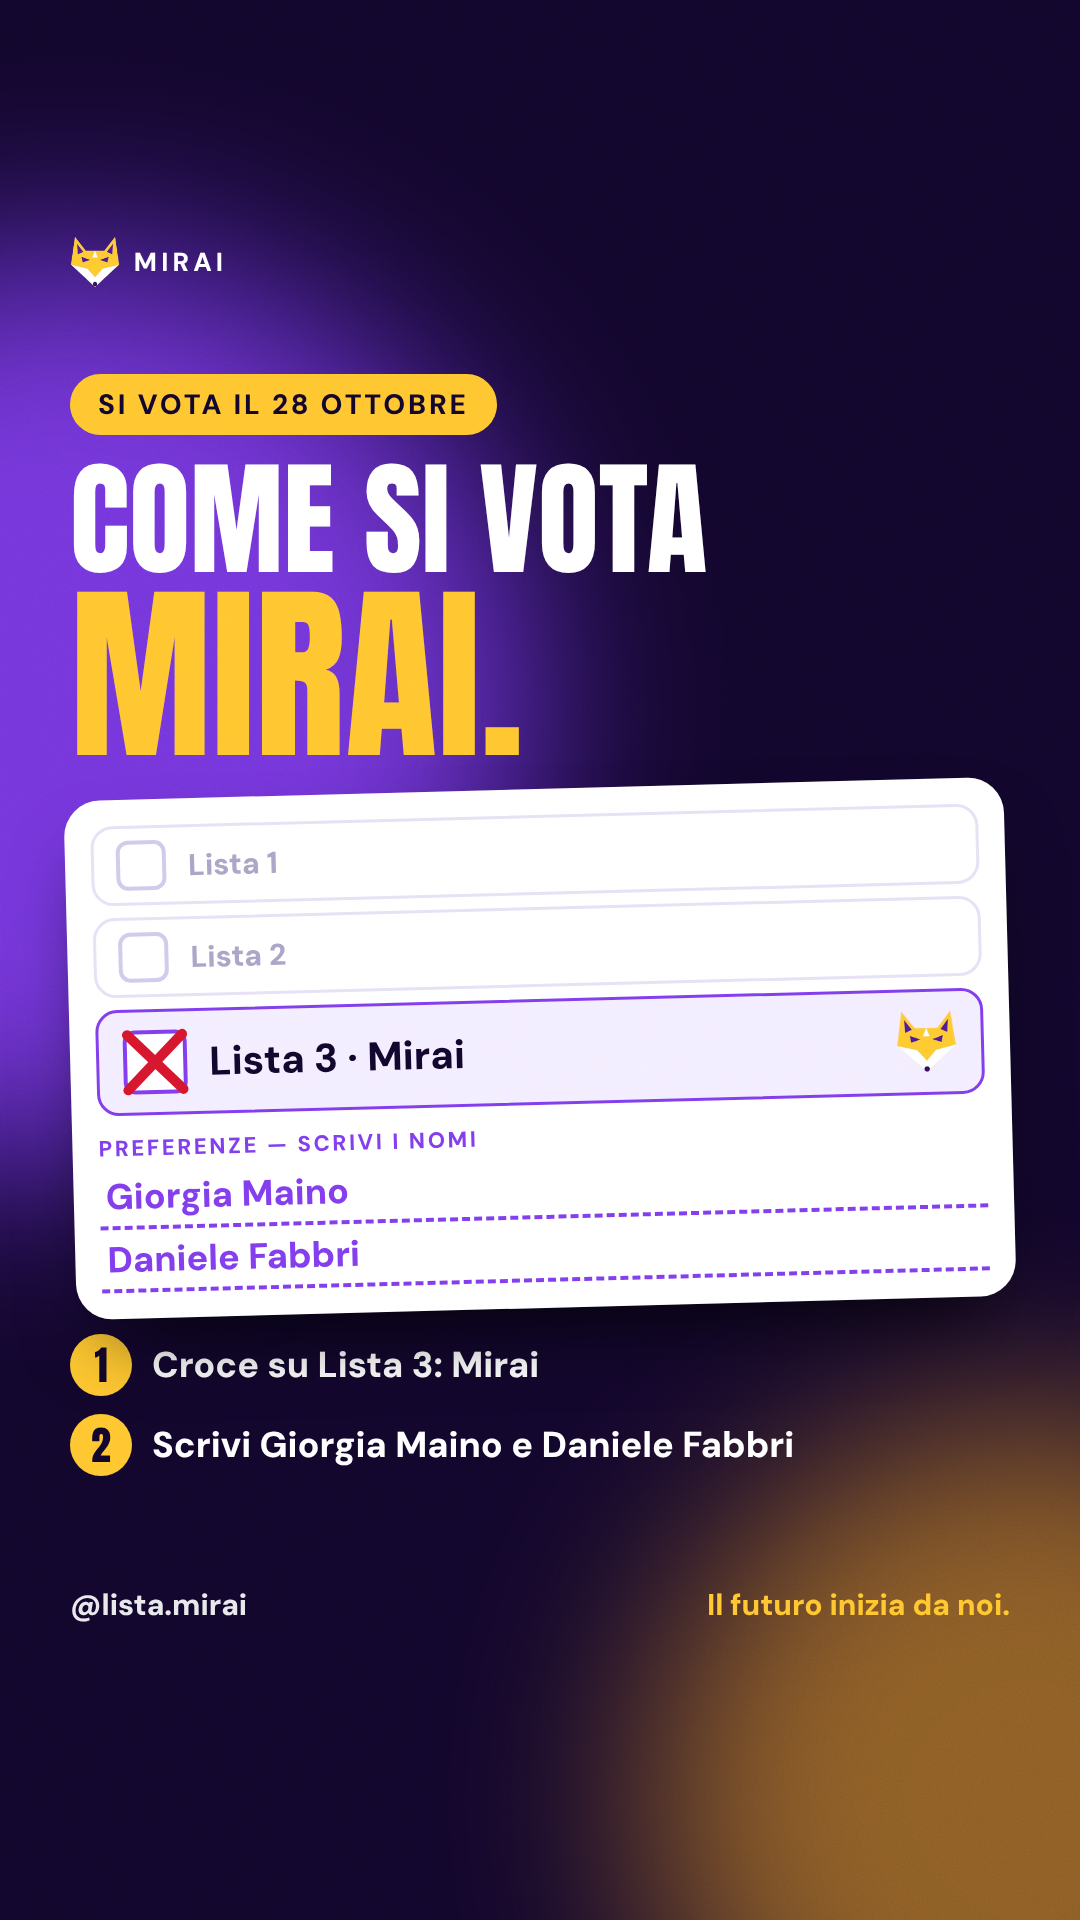
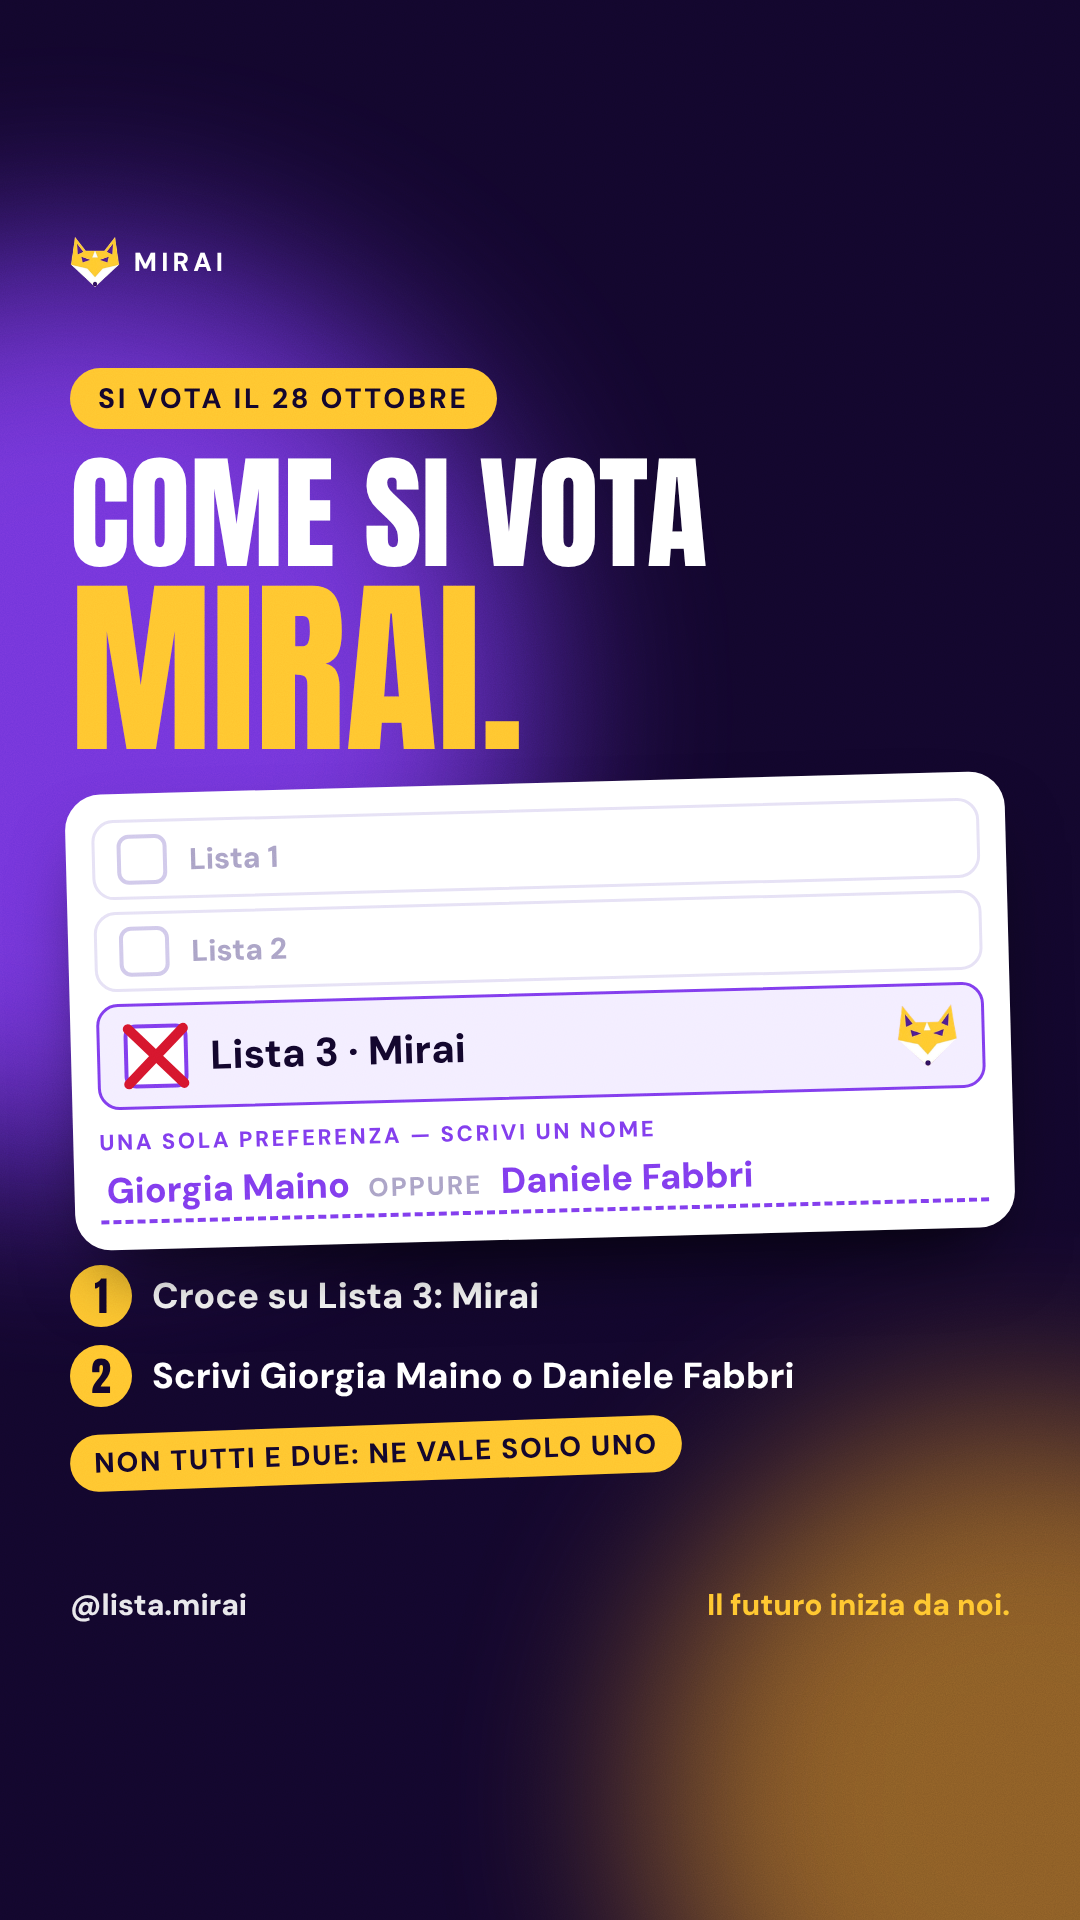
Social voto: una sola preferenza (Giorgia o Daniele)
Claude-Session: https://claude.ai/code/session_01GjWaSYZkqZzSe8a8dDrV6x

diff --git a/social/voto/voto.html b/social/voto/voto.html
@@ -43,23 +43,23 @@ body{background:#000;font-family:"DM Sans",sans-serif}
 .lab{font:800 22px "DM Sans";letter-spacing:.12em;text-transform:uppercase;color:#7c3aed;margin-top:18px}
 .num{display:inline-flex;width:62px;height:62px;border-radius:50%;background:var(--gold);color:var(--ink);font:400 40px/62px "Anton";justify-content:center;flex:none}
 .st{display:flex;align-items:center;gap:20px;font:800 36px/1.12 "DM Sans"}
-#p0 .st{font-size:33px}#p0 .sheet{margin-top:20px!important}</style></head><body>
+#p0 .st{font-size:33px}#p0 .sheet{margin-top:14px!important}#p0 .A{margin-top:16px!important}</style></head><body>
 
 
 <section class="c p v0" id="p0"><div class="blob b1"></div><div class="blob b2"></div>
  <div class="brand"><img src="../../assets/fox-96.png" alt="">Mirai</div>
- <div style="position:absolute;left:70px;right:70px;top:150px;z-index:8">
+ <div style="position:absolute;left:70px;right:70px;top:128px;z-index:8">
   <span class="kick">Si vota il 28 ottobre</span>
   <div class="A" style="margin-top:26px"><div class="w" data-box="940" data-max="125">Come si vota</div><div class="g" data-box="940" data-max="170">Mirai.</div></div>
   <div class="sheet" style="margin-top:30px">
    <div class="row"><span class="box"></span>Lista 1</div>
    <div class="row"><span class="box"></span>Lista 2</div>
    <div class="row me"><span class="box"></span>Lista 3 · Mirai<img src="../../assets/fox-96.png" alt=""></div>
-   <div class="lab">Preferenze — scrivi i nomi</div>
-   <div class="line">Giorgia Maino</div><div class="line" style="margin-top:2px">Daniele Fabbri</div></div>
+   <div class="lab">Una sola preferenza — scrivi un nome</div>
+   <div class="line">Giorgia Maino <span style="font:700 26px 'DM Sans';color:#a79fc4;letter-spacing:.08em;text-transform:uppercase;margin:0 10px">oppure</span> Daniele Fabbri</div></div>
   <div style="display:flex;flex-direction:column;gap:16px;margin-top:30px">
    <div class="st"><span class="num">1</span>Segna una croce su Lista 3: Mirai</div>
-   <div class="st"><span class="num">2</span>Scrivi: Giorgia Maino e Daniele Fabbri</div></div></div>
+   <div class="st"><span class="num">2</span>Scrivi un nome: Giorgia Maino o Daniele Fabbri</div><div style="align-self:flex-start;background:var(--gold);color:var(--ink);font:800 28px 'DM Sans';letter-spacing:.06em;text-transform:uppercase;padding:10px 24px;border-radius:99px;transform:rotate(-2deg)">Non tutti e due: ne vale solo uno</div></div></div>
  <div class="handle"><span>@lista.mirai</span><b>Il futuro inizia da noi.</b></div>
 </section>
 
@@ -72,11 +72,11 @@ body{background:#000;font-family:"DM Sans",sans-serif}
    <div class="row"><span class="box"></span>Lista 1</div>
    <div class="row"><span class="box"></span>Lista 2</div>
    <div class="row me"><span class="box"></span>Lista 3 · Mirai<img src="../../assets/fox-96.png" alt=""></div>
-   <div class="lab">Preferenze — scrivi i nomi</div>
-   <div class="line">Giorgia Maino</div><div class="line" style="margin-top:2px">Daniele Fabbri</div></div>
+   <div class="lab">Una sola preferenza — scrivi un nome</div>
+   <div class="line">Giorgia Maino <span style="font:700 26px 'DM Sans';color:#a79fc4;letter-spacing:.08em;text-transform:uppercase;margin:0 10px">oppure</span> Daniele Fabbri</div></div>
   <div style="display:flex;flex-direction:column;gap:18px">
    <div class="st"><span class="num">1</span>Croce su Lista 3: Mirai</div>
-   <div class="st"><span class="num">2</span>Scrivi Giorgia Maino e Daniele Fabbri</div></div></div>
+   <div class="st"><span class="num">2</span>Scrivi Giorgia Maino o Daniele Fabbri</div><div style="align-self:flex-start;background:var(--gold);color:var(--ink);font:800 28px 'DM Sans';letter-spacing:.06em;text-transform:uppercase;padding:10px 24px;border-radius:99px;transform:rotate(-2deg)">Non tutti e due: ne vale solo uno</div></div></div>
  <div class="handle"><span>@lista.mirai</span><b>Il futuro inizia da noi.</b></div>
 </section>
 <script>document.fonts.ready.then(()=>{document.querySelectorAll('[data-max]').forEach(e=>{let s=+e.dataset.max;const box=+(e.dataset.box||940);e.style.fontSize=s+'px';e.style.display='table';if(e.parentElement.style.alignItems==='center'||e.parentElement.classList.contains('ctr')){e.style.marginLeft='auto';e.style.marginRight='auto'}const w=e.scrollWidth;if(w>box){s=Math.floor(s*box/w);e.style.fontSize=s+'px'}});document.body.dataset.ready=1})</script></body></html>
